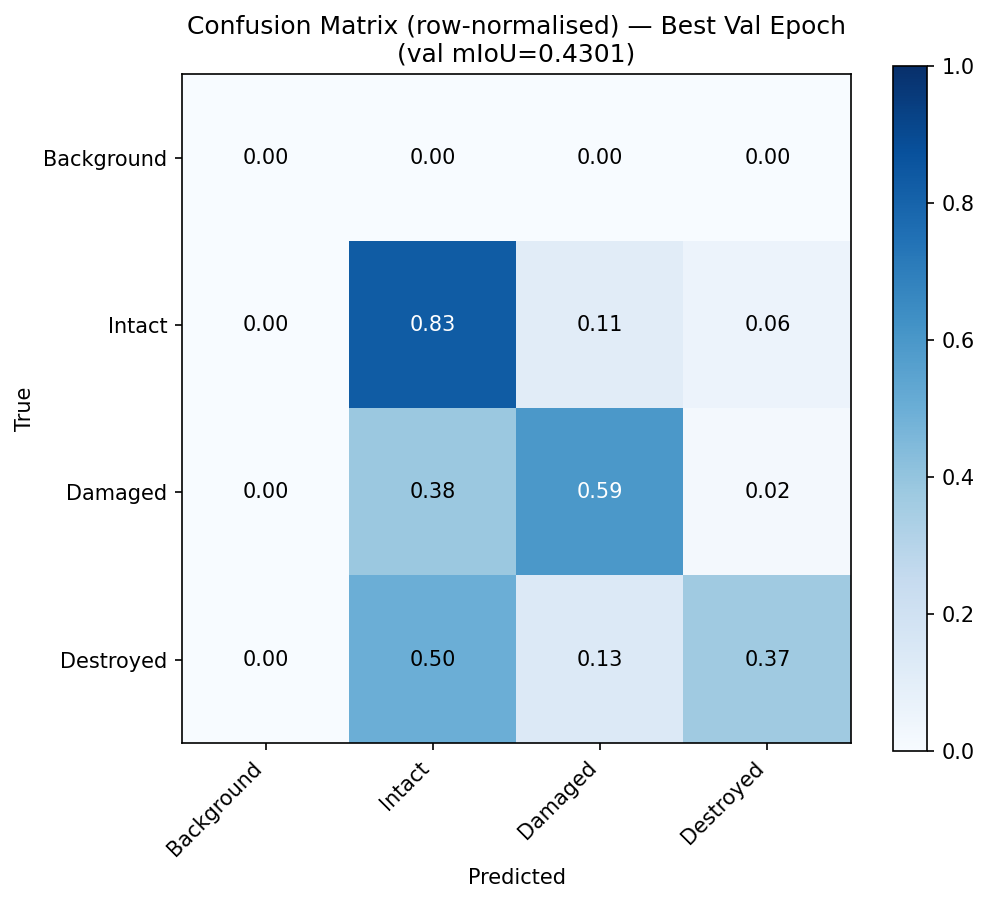
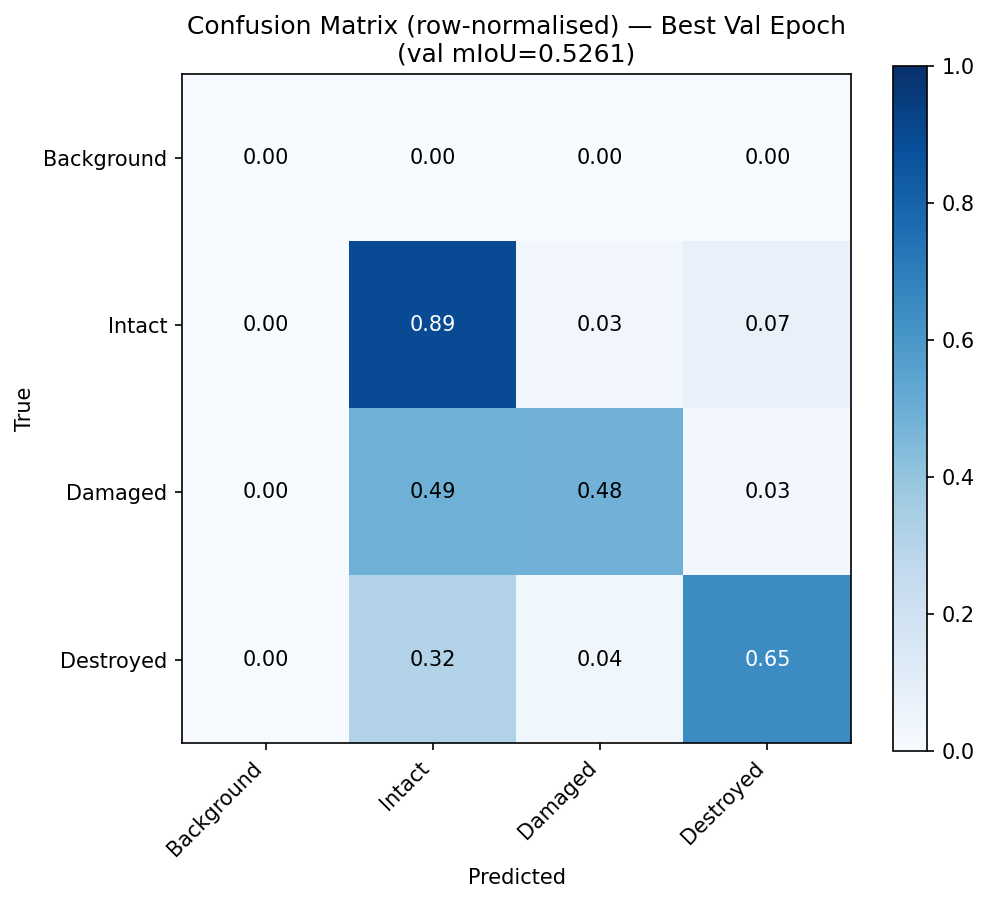
changed the encoder of the UNet to resnet34

diff --git a/src/models/encoder.py b/src/models/encoder.py
@@ -1,55 +1,66 @@
 from __future__ import annotations
 import torch
 import torch.nn as nn
-from torchvision.models import resnet50, ResNet50_Weights
+from torchvision.models import resnet50, ResNet50_Weights, resnet34, ResNet34_Weights
 
 class ResNetEncoder(nn.Module):
-    """Resnet50 encoder - Shared ResNet50 encoder with seperate input stems
+    """
+    Shared ResNet encoder with separate input stems for optical and SAR.
+     - ResNet-50: out_channels = [64, 256, 512, 1024, 2048]  (bottleneck blocks)
+     - ResNet-34: out_channels = [64,  64, 128,  256,  512]  (basic blocks)
     """
     
-    def __init__(self, pretrained: bool = True):
+    def __init__(self, pretrained: bool = True, backbone: str = "resnet50"):
         super().__init__()
-        backbone = resnet50(
-            weights = ResNet50_Weights.IMAGENET1K_V2 if pretrained else None
-        )
-        
-        # seperate STEMS
-        # optical stem: 3 > 64
+
+        # Load backbone — use `base` to avoid conflict with `backbone` string param
+        if backbone == "resnet50":
+            base = resnet50(
+                weights=ResNet50_Weights.IMAGENET1K_V2 if pretrained else None
+            )
+            self.out_channels = [64, 256, 512, 1024, 2048]
+
+        elif backbone == "resnet34":
+            base = resnet34(
+                weights=ResNet34_Weights.IMAGENET1K_V1 if pretrained else None
+            )
+            self.out_channels = [64, 64, 128, 256, 512]
+
+        else:
+            raise ValueError(f"Unsupported backbone: '{backbone}'. Choose 'resnet50' or 'resnet34'.")
+
+        # Optical stem: 3 → 64 (pretrained weights)
         self.optical_stem = nn.Sequential(
-            backbone.conv1, #Conv2D(3, 64, 7, stride=2, padding=3)
-            backbone.bn1,
-            backbone.relu,
-            backbone.maxpool
+            base.conv1,      # Conv2d(3, 64, 7, stride=2, padding=3)
+            base.bn1,
+            base.relu,
+            base.maxpool
         )
-        # SAR stem: 1 > 64 (new conv- not pretrained)
+
+        # SAR stem: 1 → 64 (new conv — trained from scratch)
         self.sar_stem = nn.Sequential(
             nn.Conv2d(1, 64, kernel_size=7, stride=2, padding=3, bias=False),
             nn.BatchNorm2d(64),
             nn.ReLU(inplace=True),
             nn.MaxPool2d(kernel_size=3, stride=2, padding=1)
         )
-        
-        # shared encoder body
-        self.layer1 = backbone.layer1 # 256, stride 4
-        self.layer2 = backbone.layer2 # 512, stride 8
-        self.layer3 = backbone.layer3 # 1024, stride 16
-        self.layer4 = backbone.layer4 # 2048, stride 32
-        
-        # output channels at each scale (used for decoding)
-        self.out_channels = [64, 256, 512, 1024, 2048]
-        
-    def forward(self, x: torch.Tensor, modality: str = "optical"):
-        """Returns a list of feature maps [s1, s2, s3, s4, s5]
-        """
-        if modality == "optical":
-            stem = self.optical_stem
-        else:
-            stem = self.sar_stem
-        
-        s1 = stem(x) #(B, 64, H/2, W/2) - before maxpooling 
-        s2 = self.layer1(s1) #(B, 256, H/4, W/4)
-        s3 = self.layer2(s2) #(B, 512, H/8, W/8)
-        s4 = self.layer3(s3) #(B, 1024, H/16, W/16)
-        s5 = self.layer4(s4) #(B, 2048, H/32, W/32)
-        
+
+        # Shared encoder body
+        self.layer1 = base.layer1   # ResNet-50: 256ch | ResNet-34:  64ch
+        self.layer2 = base.layer2   # ResNet-50: 512ch | ResNet-34: 128ch
+        self.layer3 = base.layer3   # ResNet-50:1024ch | ResNet-34: 256ch
+        self.layer4 = base.layer4   # ResNet-50:2048ch | ResNet-34: 512ch
+
+        # NOTE: self.out_channels already set above per backbone — do NOT override here
+
+    def forward(self, x: torch.Tensor, modality: str = "optical") -> list[torch.Tensor]:
+        """Returns feature maps at 5 scales: [s1, s2, s3, s4, s5]"""
+        stem = self.optical_stem if modality == "optical" else self.sar_stem
+
+        s1 = stem(x)           # (B,  64, H/4,  W/4)
+        s2 = self.layer1(s1)   # (B,  C1, H/4,  W/4)
+        s3 = self.layer2(s2)   # (B,  C2, H/8,  W/8)
+        s4 = self.layer3(s3)   # (B,  C3, H/16, W/16)
+        s5 = self.layer4(s4)   # (B,  C4, H/32, W/32)
+
         return [s1, s2, s3, s4, s5]

diff --git a/src/models/siamese_unet.py b/src/models/siamese_unet.py
@@ -13,25 +13,26 @@ from .decoder import DecoderBlock, DoubleConv
 
 class SiameseUNet(nn.Module):
     
-    def __init__(self, num_classes:int = 4, pretrained: bool = True):
+    def __init__(self, num_classes:int = 4, pretrained: bool = True, backbone: str = "resnet50"):
         super().__init__()
-        self.encoder = ResNetEncoder(pretrained=pretrained)
+        self.encoder = ResNetEncoder(pretrained=pretrained, backbone=backbone)
         
         # each skip with pre features post feature to double the channels
-        enc_ch = self.encoder.out_channels # [64, 256, 512, 1024, 2048]
+        enc_ch = self.encoder.out_channels # [64, 256, 512, 1024, 2048] , ResNet-34: [64,  64, 128,  256,  512]
         
-        # bottleneck fusion: conacat pre + post > 2048*2
+        # bottleneck fusion: works with both the model
+        bottleneck_out = enc_ch[4] // 2
         self.bottleneck_conv = nn.Sequential(
-            DoubleConv(enc_ch[4] * 2, 1024),
+            DoubleConv(enc_ch[4] * 2, bottleneck_out),
             nn.Dropout2d(p=0.3)
-            )
+        )
         
         # decoder blocks 
         # skp_ch  = pre channels + post channels 
-        self.dec4 = DecoderBlock(1024, enc_ch[3] * 2, 512)
-        self.dec3 = DecoderBlock(512, enc_ch[2] * 2, 256)
-        self.dec2 = DecoderBlock(256, enc_ch[1] * 2, 128)
-        self.dec1 = DecoderBlock(128, enc_ch[0] * 2, 64)
+        self.dec4 = DecoderBlock(bottleneck_out, enc_ch[3] * 2, enc_ch[3])
+        self.dec3 = DecoderBlock(enc_ch[3], enc_ch[2] * 2, enc_ch[2])
+        self.dec2 = DecoderBlock(enc_ch[2], enc_ch[1] * 2, enc_ch[1])
+        self.dec1 = DecoderBlock(enc_ch[1], enc_ch[0] * 2, 64)
         
         # final upsample x2 back to original resolutioin + classification head
         self.final_upsample = nn.Upsample(

diff --git a/src/training/trainer.py b/src/training/trainer.py
@@ -189,7 +189,7 @@ class Trainer:
         # reload Best Checkpoint for CM 
         best_path = os.path.join(self.checkpoint_dir, "UNet.pth")
         if os.path.exists(best_path):
-            ckpt = torch.load(best_path, map_location=self.device)
+            ckpt = torch.load(best_path, map_location=self.device, weights_only=True)
             self.model.load_state_dict(ckpt["model_state"])
             print(f" Reloaded best weights for CM (val mIoU={ckpt['val_mean_iou']:.4f})")
 
@@ -219,7 +219,7 @@ class Trainer:
 
         # Row-normalise so each cell = recall per class
         row_sums = cm.sum(axis=1, keepdims=True)
-        cm_norm  = np.divide(cm, row_sums, where=row_sums != 0)
+        cm_norm = np.divide(cm, row_sums, out=np.zeros_like(cm), where=row_sums != 0)
 
         fig, ax = plt.subplots(figsize=(7, 6))
         im = ax.imshow(cm_norm, interpolation="nearest", cmap="Blues", vmin=0, vmax=1)
@@ -399,7 +399,7 @@ class Trainer:
         Restore trainer state from a saved checkpoint.
         """
         
-        ckpt = torch.load(path, map_location=self.device)
+        ckpt = torch.load(path, map_location=self.device, weights_only=True)
         
         self.model.load_state_dict(ckpt["model_state"])
         self.optimizer.load_state_dict(ckpt["optim_state"])

diff --git a/train.py b/train.py
@@ -55,6 +55,7 @@ def build_model(cfg: SimpleNamespace) -> torch.nn.Module:
     model = SiameseUNet(
         num_classes = cfg.data.num_classes,
         pretrained  = cfg.model.pretrained,
+        backbone= cfg.model.backbone
     )
     n_params = sum(p.numel() for p in model.parameters() if p.requires_grad)
     print(f" Model params: {n_params / 1e6:.2f}M")
@@ -105,6 +106,15 @@ def main():
 
     # model 
     model = build_model(cfg)
+    
+    model = model.to(device)
+    
+    dummy_opt = torch.zeros(1, 3, 512, 512).to(device)
+    dummy_sar = torch.zeros(1, 1, 512, 512).to(device)
+    dummy_valid = torch.ones(1, dtype=torch.bool).to(device)
+    with torch.no_grad():
+        out = model(dummy_opt, dummy_sar, dummy_valid)
+    print(f" Smoke test passed — output shape: {out.shape}")
 
     # trainer 
     trainer = Trainer(
@@ -128,6 +138,7 @@ def main():
 
     # train
     history = trainer.fit()
+    
     
     # plot curves and cm
     trainer.plot_history(save_dir=cfg.training.checkpoint_dir)

diff --git a/src/training/losses.py b/src/training/losses.py
@@ -57,7 +57,7 @@ class CombinedLoss(nn.Module):
         self.ignore_index = ignore_index
 
         if class_weights is None:
-            class_weights = [0.0, 1.0, 7.8, 13.0]
+            class_weights = [0.0, 1.0, 7.8, 20.0]
 
         # register_buffer → moves automatically with .to(device)
         self.register_buffer(
